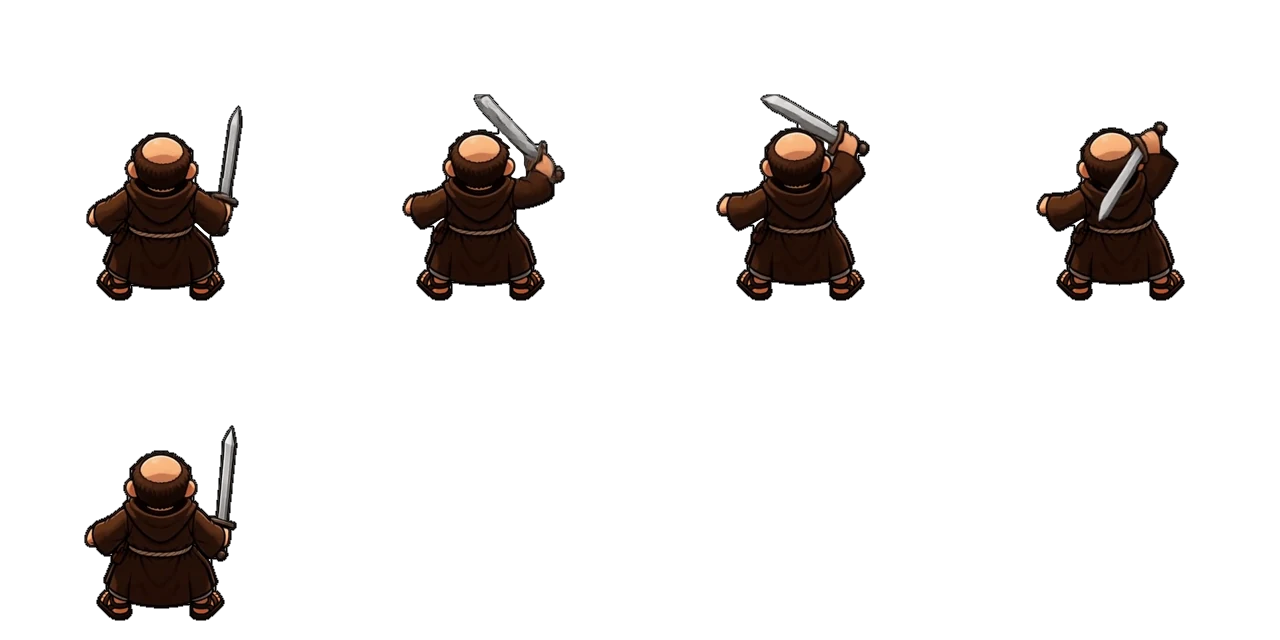
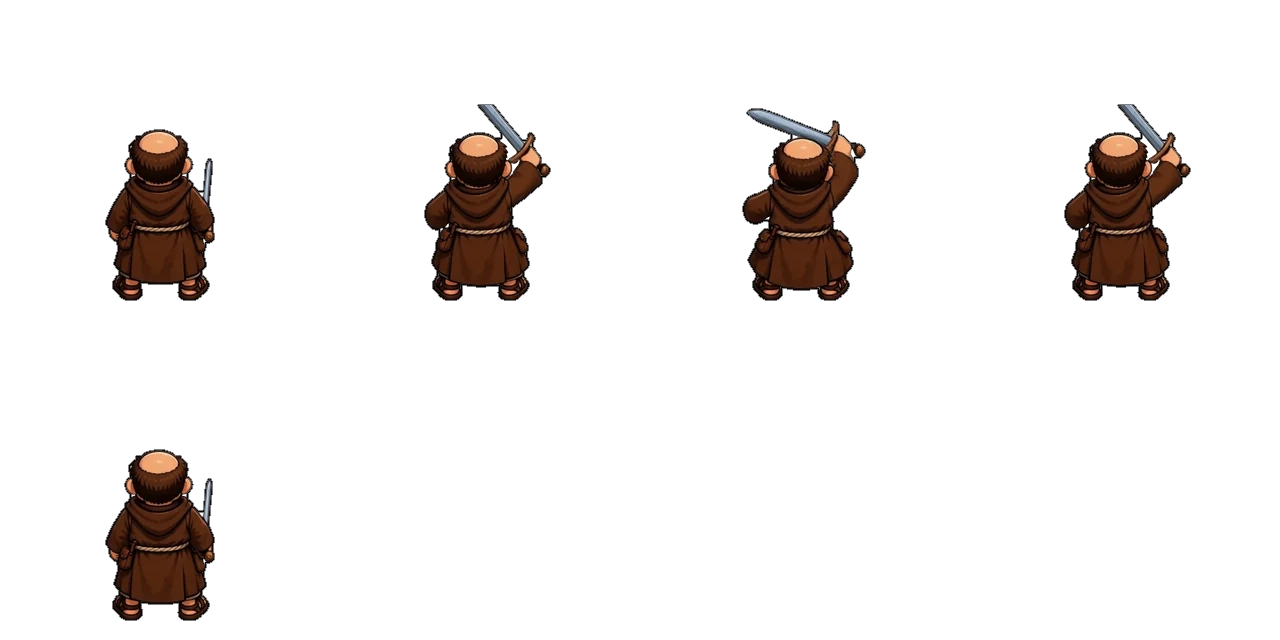
Atac d'espasa cap amunt: es fa servir el full triat a ma (espasa_up_v4), fotogrames 0, 1, 2, 1, 0
El pack generat a AutoSprite (espasa_up_v3) sortia amb l'habit massa fosc i l'espasa a l'esquena: es descarta.

diff --git a/js/assets.js b/js/assets.js
@@ -328,7 +328,7 @@ const Grafics = {
         DIRS_INEU.forEach(dir => {
             const mida = { frameWidth: SPRITE_INEU.ample, frameHeight: SPRITE_INEU.alt };
             scene.load.spritesheet('ineu_' + dir, rutaIneu(dir, false), mida);
-            ATAC_ARMES.forEach(arma => scene.load.spritesheet(`ineu_atac_${arma}_${dir}`, `assets/ineu/atac_${arma}_${dir}.webp?v=2611121600`, { frameWidth: ATAC_CEL, frameHeight: ATAC_CEL }));
+            ATAC_ARMES.forEach(arma => scene.load.spritesheet(`ineu_atac_${arma}_${dir}`, `assets/ineu/atac_${arma}_${dir}.webp?v=2611121700`, { frameWidth: ATAC_CEL, frameHeight: ATAC_CEL }));
         });
         [...new Set(Object.values(IDLE_INEU))].forEach(dir => {
             const mida = { frameWidth: SPRITE_INEU.ample, frameHeight: SPRITE_INEU.alt };

diff --git a/eines/fer_atac_arma.py b/eines/fer_atac_arma.py
@@ -23,11 +23,11 @@ FOT = {'basto': [2, 3, 4, 5, 5], 'tiller': [2, 3, 4, 5, 5], 'espasa': [2, 3, 4, 
 # Excepcions per (arma, direcció): full d'origen i fotogrames propis. A la vista d'esquena ('up') de la 2a generació l'arma queda amagada darrere el cap o tallada per la vora
 # del fotograma (la branca només es veu en un fotograma, després només una corona de fulles sobre el cap): la branca fa servir la 1a generació (tiller_v1), on la branca balla
 # ben visible i sencera de dreta a esquerra (fotogrames 2: dreta, 8, 4 i 5: a l'esquerra, 3: tot a l'esquerra).
-# L'espasa 'up' (vista d'esquena) de la 2a generació no la mostrava: es va tornar a generar a AutoSprite (pack d'atac amb espasa, art/ineu/atac_arma/espasa_up_v3) i hi surt
-# a tots els fotogrames. Es trien guàrdia alçada (4), espasa enrere a la dreta (11), a dalt a l'esquerra (10), tall en diagonal avall (6) i guàrdia (12).
-ORIGEN_EXC = {('tiller', 'up'): 'tiller_v1', ('espasa', 'up'): 'espasa_up_v3'}
-FOT_EXC = {('tiller', 'up'): [2, 8, 4, 5, 3], ('espasa', 'up'): [4, 11, 10, 6, 12]}
-CENTRAL = {('espasa', 'up')}        # l'espasa sobresurt per sobre del cap: l'escala del cos es mesura només amb les columnes del cap
+# L'espasa 'up' (vista d'esquena): el full de 2a generació l'amagava i el de la 3a (espasa_up_v3) sortia amb l'hàbit massa fosc i l'espasa a l'esquena. Es fa servir un full triat
+# a mà (espasa_up_v4): només els tres primers fotogrames, els únics on surt l'espasa (0: baixa al costat, 1 i 2: alçada), i la tornada per completar els 5 del joc.
+ORIGEN_EXC = {('tiller', 'up'): 'tiller_v1', ('espasa', 'up'): 'espasa_up_v4'}
+FOT_EXC = {('tiller', 'up'): [2, 8, 4, 5, 3], ('espasa', 'up'): [0, 1, 2, 1, 0]}
+CENTRAL = set()        # direccions on l'escala del cos es mesura només amb les columnes del cap (quan l'arma sobresurt per sobre del cap)
 SRC, CEL = 384, 320         # fotograma d'origen i cel·la de sortida (més gran que abans, perquè l'arma no es talli)
 COS = 170.0                  # alçada que ha de fer el cos de l'Ineu a la cel·la (com als fulls de caminar reduïts)
 GRUIX = 1
